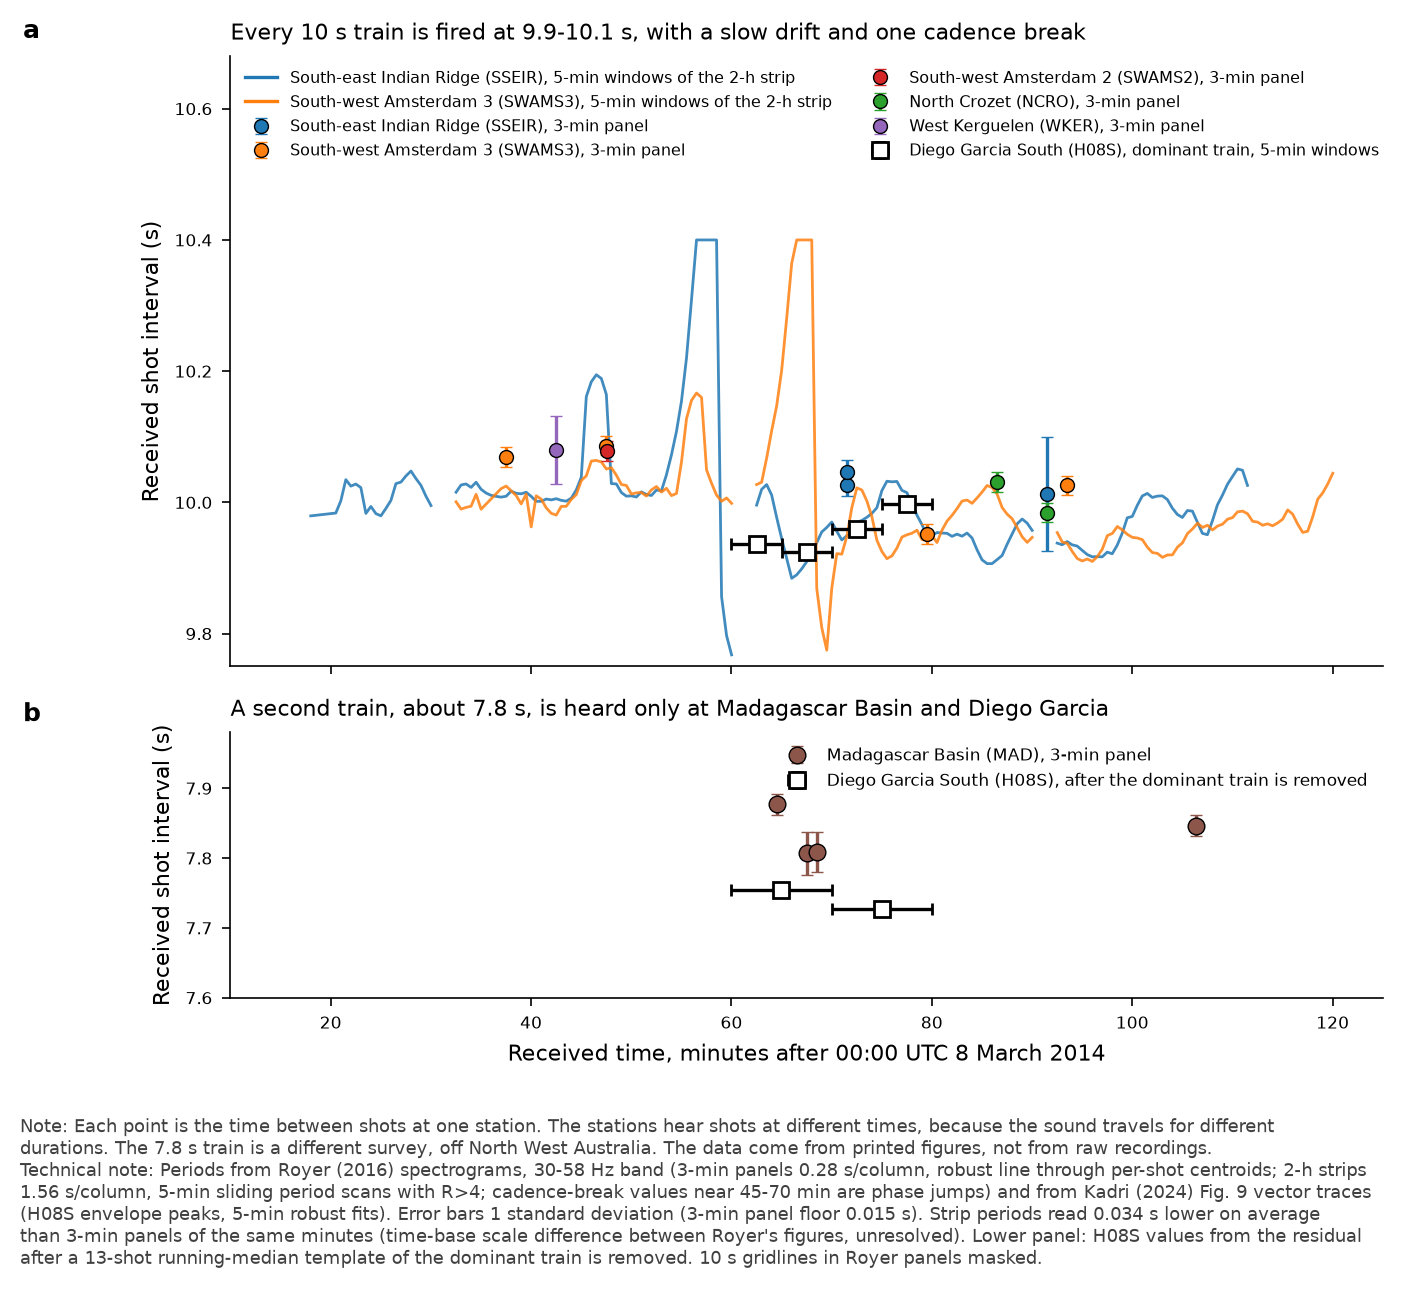
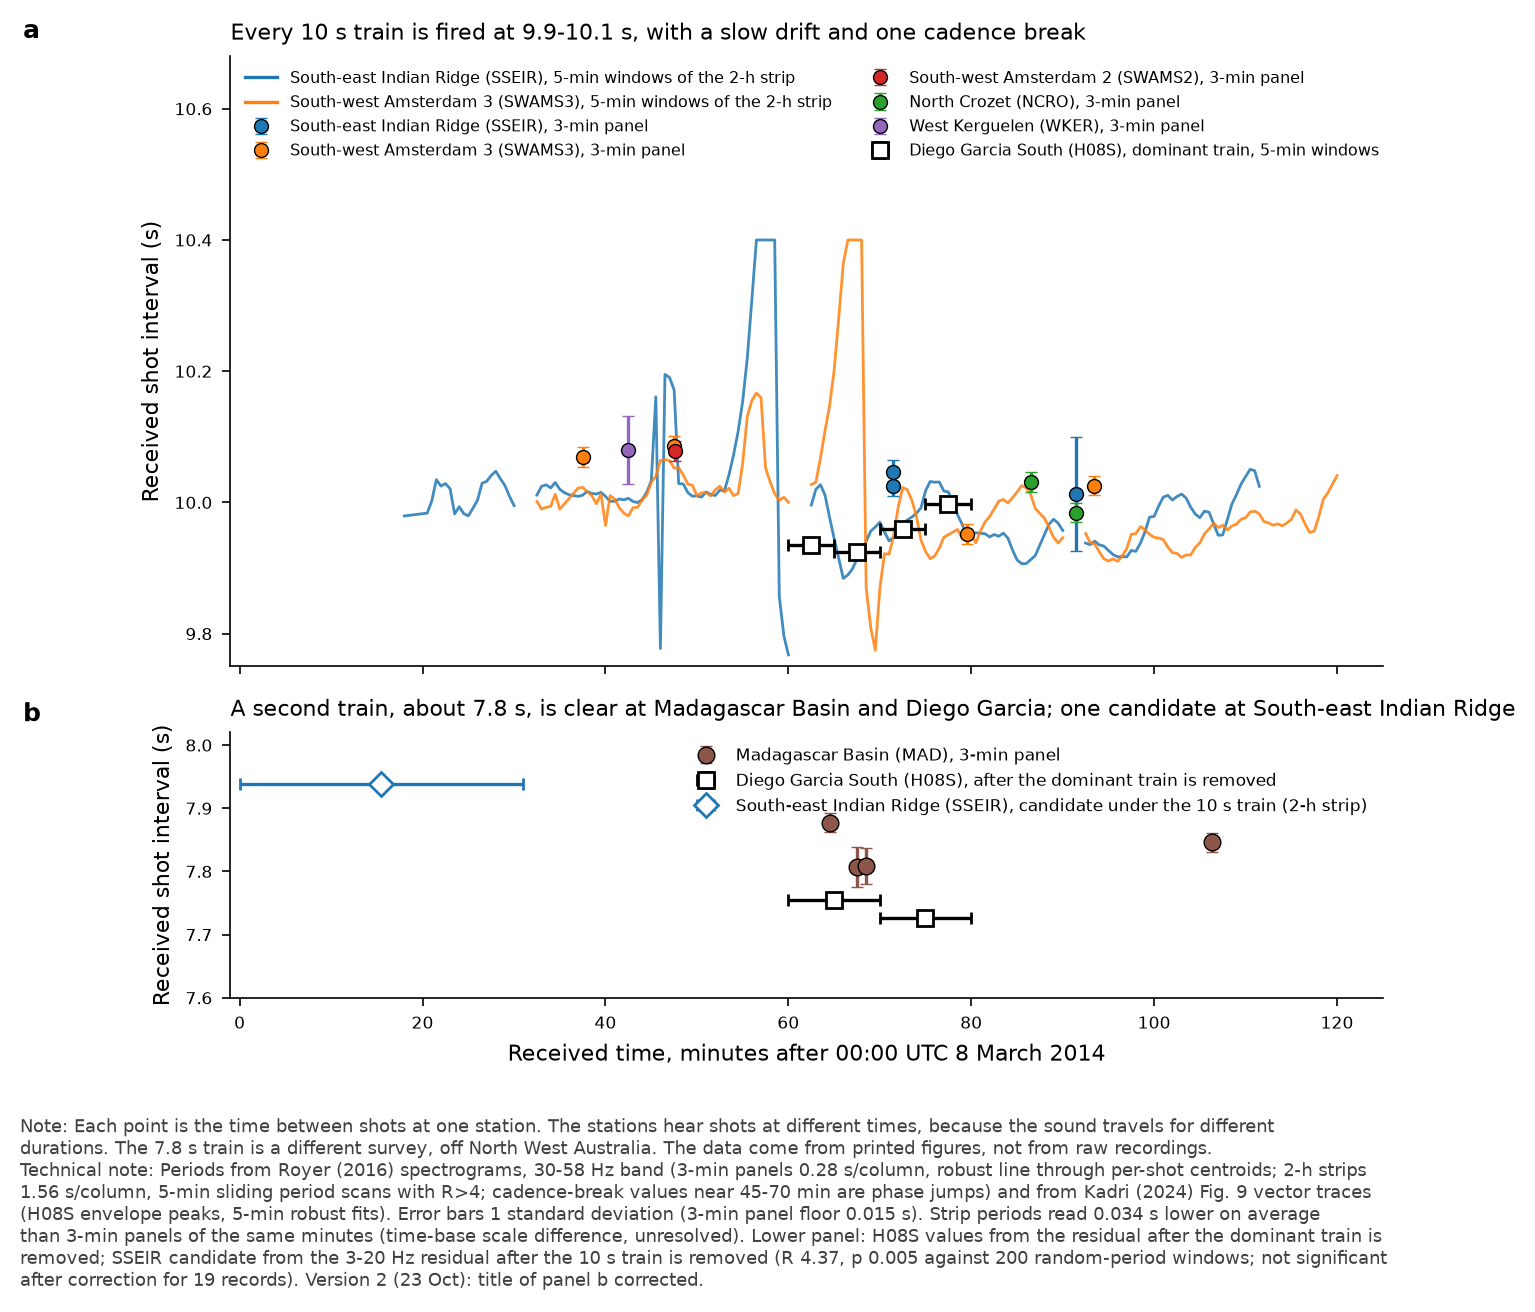
Airgun surveys addendum: Huzzas search under the 10 s train at OHASISBIO sites, upper limits, level-ratio check; corrected Huzzas path verdicts

diff --git a/Claude Science Project Sep 29/results/hydroacoustics-back-to-basics-2026-10-23/airgun-surveys/README_airgun_surveys.md b/Claude Science Project Sep 29/results/hydroacoustics-back-to-basics-2026-10-23/airgun-surveys/README_airgun_surveys.md
@@ -65,7 +65,7 @@ Evidence on the data held ([fig2_cadence_alignment.png](fig2_cadence_alignment.p
 * **Doppler** could not be used. The predicted SSEIR/SWAMS-3 differential is below about 2 × 10⁻⁴, inside the Royer time-base uncertainty (0.34 % between figure types).
 * **Shot emission times** (survey A, from SSEIR strip arrivals): 23:06 (7 March) to 00:44 UTC, ±103 s from location uncertainty ([survey_A_emission_times_from_SSEIR.csv](survey_A_emission_times_from_SSEIR.csv)).
 * **Source level**: received pulse-peak band levels (5–58 Hz) are at least 103–115 dB re 1 µPa. These are lower bounds, because the Royer colour scale saturates at 100 dB re 1 µPa²/Hz (up to 27 % of pixels saturated). Simple spreading over about 6,200 km gives a source level of at least about 222 dB re 1 µPa at 1 m. This is consistent with a commercial array, but the module's transmission-loss chain is not calibrated in slope, so it is an order-of-magnitude check only.
-* **Survey C (Huzzas)**: position known (NOPSEMA polygon). Path checks agree with what is heard: blocked to H01W, Perth Canyon, Scott Reef, SWAMS and WKER; partial to MAD and H08S.
+* **Survey C (Huzzas)**: position known (NOPSEMA polygon). [Corrected in §10: from the vessel's 8 March position the open-ocean paths to SSEIR, NCRO, WKER, MAD and H08S are open; SWAMS has one ~15 km section at 850 m; H01W, Perth Canyon, Scott Reef, H08N and Portland are blocked.]
 
 ## 6. Step 3: online records
 
@@ -110,3 +110,65 @@ Evidence on the data held ([fig2_cadence_alignment.png](fig2_cadence_alignment.p
 ![fig3_survey_location_posterior.png](fig3_survey_location_posterior.png)
 ![fig4_template_subtraction_example.png](fig4_template_subtraction_example.png)
 ![fig5_detection_probability_gain.png](fig5_detection_probability_gain.png)
+
+
+## 10. Addendum (23 Oct, second pass): was the Huzzas survey recorded at the French sites?
+
+**Correction to §5 (path checks).** My statement "Survey C: blocked to … SWAMS and WKER; partial to MAD and H08S" is withdrawn. It excluded only 50 km at the source, but the vessel sits on the shelf (about 260 m), so the "shallow" points were the source's own shelf. The lead's GEBCO_2026 geodesic table (vessel on CMST's nav bearing, about 21.0° S 114.6–114.9° E) supersedes it:
+
+* **Open (no point shallower than 1000 m once off the shelf):** SSEIR, NCRO, WKER, MAD, H08S.
+* **SWAMS:** one ~15 km section at about 850 m.
+* **Blocked:** H01W (530–730 km of Western Australia), Perth Canyon, Scott Reef (250–380 km of shelf shallower than 200 m), H08N, Portland.
+* **From AD-7 (19.91° N 91.97° E):** open to SSEIR, SWAMS, NCRO, WKER and H08S. MAD is blocked (31 km shallower than 200 m on the Chagos–Laccadive ridge), which matches the absence of the 10 s train at MAD. H01W and IMOS are blocked by land.
+
+**Search under the 10 s train.**
+
+* **Method.** The 10 s train was removed shot by shot in the 3–20 Hz band of each Royer record, with the same neighbour-template rule as at H08S. The residual was scanned at 7.70–7.95 s. The null was the same statistic in 200 random 0.25 s period windows (6.0–9.65 s, excluding 7.0–7.4 s, which is the strip alias of the 10 s train, and 7.6–8.1 s). Tables: huzzas_residual_period_scan.csv, huzzas_cadence_template_tests.csv.
+* **MAD:** recorded (all four panels, R 9–10; reported earlier).
+* **SSEIR, candidate:**
+  * Strip 00:00–00:30: 7.938 s, R = 4.37, p = 0.005 (the floor of the null), present before subtraction (R 4.58).
+  * Strongest at 3–8 Hz (R 7.05), but also present at 25–58 Hz.
+  * Concentrated in 00:00–00:16, when the 10 s train is still weak.
+  * Absent from the blocked H01W strip at the same time (R 1.7, p 0.49), and not a 5-pixel raster artefact.
+  * Not significant after correction for 19 records (19 × 0.005 ≈ 0.10).
+* **SSEIR, marginal:** strip 01:30–02:00 at 7.78 s, p = 0.055.
+* **NCRO, marginal:** 01:30 panel at 7.703 s (at the band edge), p = 0.045.
+* **SWAMS-2/3 and WKER:** not detected.
+* **Phase test.** Predicted arrival phase (MAD and H08S Huzzas times, 1.48 km/s, geodesic ranges) is uncertain by about ±10–20 s, which is more than one period, so the phase cannot be predicted. Template tests were therefore run over a ±40 s shift. Three of 15 reach p < 0.05 (binomial P(≥3) ≈ 0.04), but the best shifts disagree between SSEIR and SWAMS-3 for the same emission window (−8 s against −37 s). Not a consistent detection.
+* **Upper limits.** These come from injecting a 7.73–7.90 s Gaussian pulse train before subtraction, 60 per level; detection means R above that record's null 95 % point (huzzas_upper_limits_summary.csv). Levels are relative to the median 10 s shot peak in the same band (3–20 Hz):
+  * 3-minute panels: 50 % detection at −16 to −7 dB, 90 % at −12 to −4 dB.
+  * 2-hour strips: 50 % at −7 to −1.5 dB, 90 % at −4 to −0.3 dB.
+  * Least sensitive: SSEIR Fig. 8 at +0.1 / +2.4 dB.
+  * No upper limit where the record is already a candidate.
+* **Answer:** recorded at MAD; one candidate at SSEIR; marginal at NCRO; not detected at SWAMS-2/3 or WKER down to the levels above. **Provisional.**
+
+**Same-night calibration check** (huzzas_to_10s_level_ratios.csv). Received Huzzas/10 s ratio minus cylindrical spreading, 10 log10(R_A/R_C):
+
+| Site | Residual (dB) |
+|---|---|
+| SSEIR 01:30–02:00 | −13.1 (3–20 Hz) |
+| NCRO 01:30 | −11.0 |
+| H08S 9d | −10.6 |
+| H08S 9e | −13.0 |
+| SSEIR 00:00–00:30 | −7.9 |
+
+The SSEIR 00:00–00:30 value is higher because the 10 s train is still weak at that time (start of line or ramp-up). So, with one exception, Huzzas arrives about 11–13 dB weaker than spreading alone predicts. That difference combines source level and shelf/slope coupling. The data cannot separate the two, because the 10 s survey's array is not documented.
+
+Caveats:
+
+* With the Thorp 0.003 dB/kyd low-frequency absorption term the residuals spread from −7 to −20 dB, so the agreement holds only without that term.
+* The SSEIR 01:30 and NCRO values come from marginal detections, which sit near the detection threshold by construction.
+* The H08S values hold only if the dominant H08S train is the Bay of Bengal survey (§4). Their agreement with the OHASISBIO sites is weak support for that, not proof.
+* No absolute source levels are claimed: the Royer colour scale saturates, and Kadri amplitudes are digitised (panel 9e has a +8.8 dB scale step, so only within-panel ratios are used).
+
+**Deviations (this pass).**
+
+* Huzzas vessel position taken as 21.0° S 114.75° E for ranges; speed fixed at 1.48 km/s for phase prediction.
+* Search band 3–20 Hz for removal and search (3–8 Hz also reported).
+* Injection pulse shape assumed Gaussian (1.06 s FWHM), 60 injections per level, not 300.
+* NCRO and WKER have no records overlapping the MAD-derived windows, and WKER has none overlapping the H08S-derived window, so those got period tests only.
+* Figure 1 regenerated (version 2) with a corrected panel b title.
+
+**Addendum files:** [huzzas_residual_period_scan.csv](huzzas_residual_period_scan.csv) · [huzzas_cadence_template_tests.csv](huzzas_cadence_template_tests.csv) · [huzzas_upper_limits_summary.csv](huzzas_upper_limits_summary.csv) · [huzzas_injection_upper_limits.csv](huzzas_injection_upper_limits.csv) · [huzzas_to_10s_level_ratios.csv](huzzas_to_10s_level_ratios.csv)
+
+![fig6_huzzas_under_10s_train.png](fig6_huzzas_under_10s_train.png)
